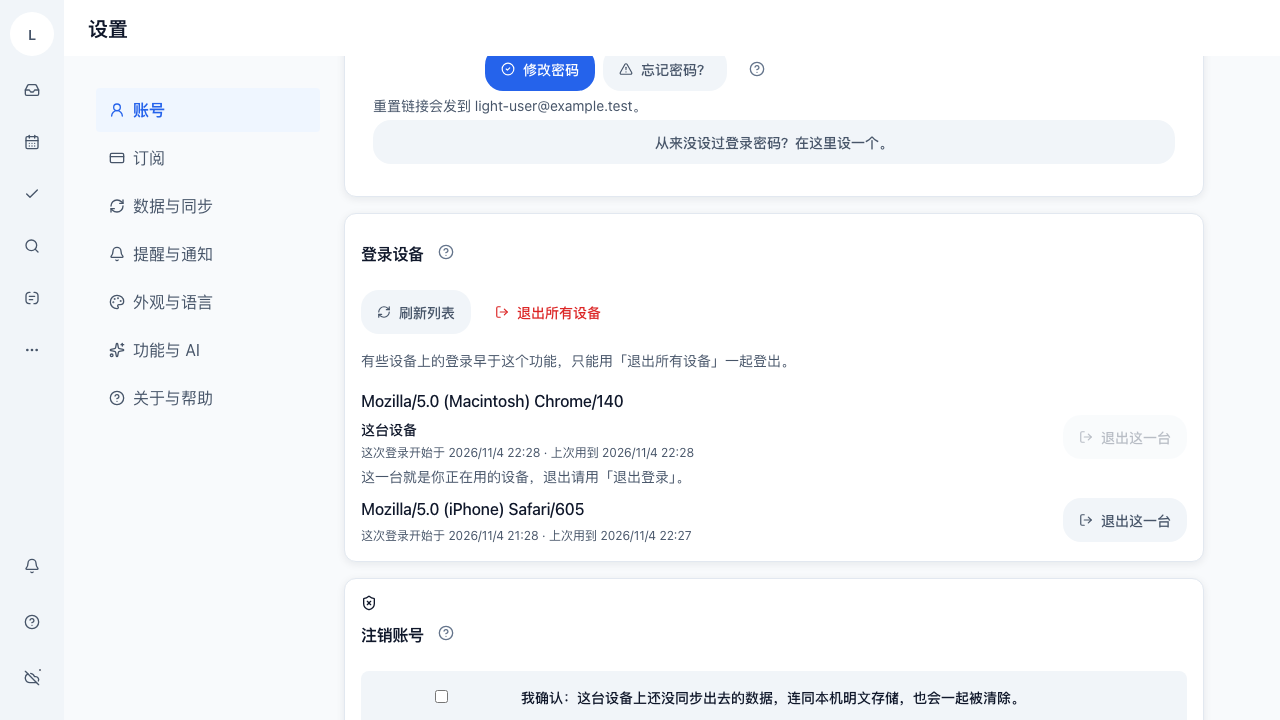
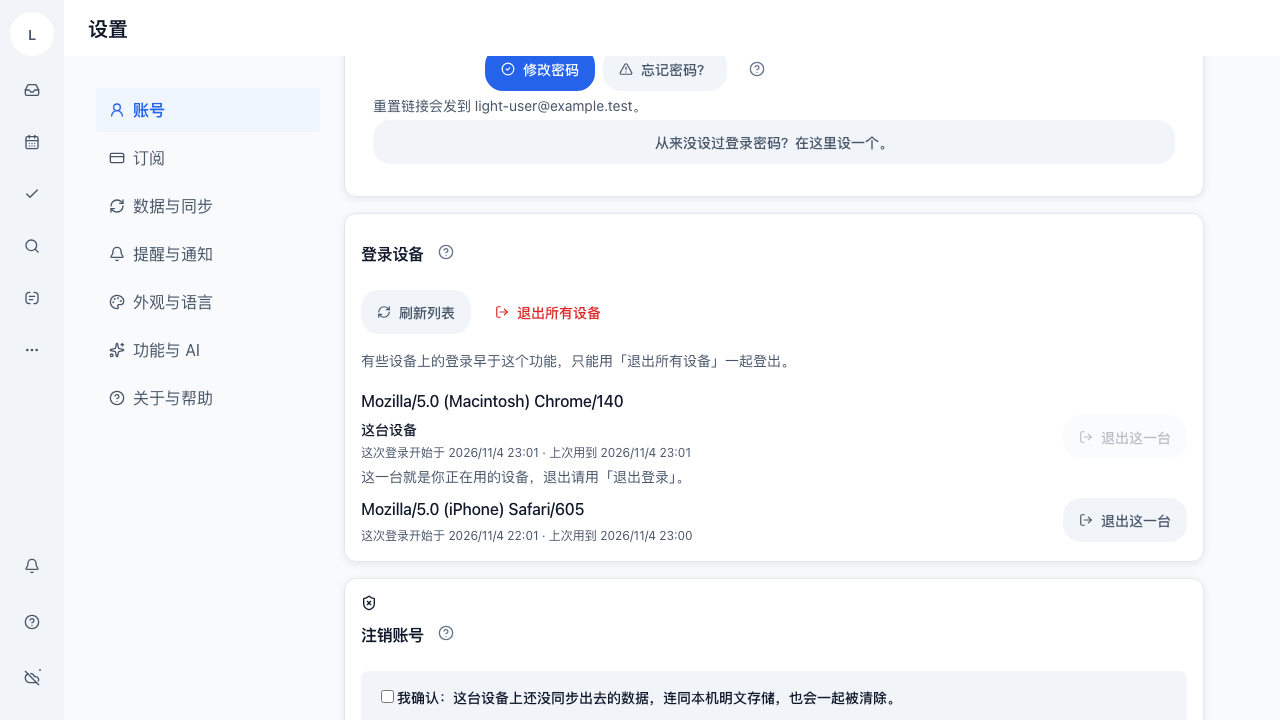
feat(settings): 暗色两档看图腿常驻 —— 抓到并修掉确认复选框被画进标签列那一格
- e2e 新增第 8 条：1440 与 375 暗色各拍迁进共享契约的三格与会话面板，
  四把尺（左缘唯一 / 宽度唯一 / 不越浮层右缘 / 文字比底亮）
- CloseAccountPanel 的确认复选框原来套在两列网格那一档，盒子被撑到整列宽、
  与它那句话隔一列 —— 改成 inline 流；行解剖账本 39 → 38
- 计划里那句"设置面那几枚 e2e 一枚都不在 pnpm check 链里"按现量否证：
  链里 check:ai-e2e 跑的就是默认整套，新 spec 自动有消费方

Changed region(s): [[0.3125, 0.9472, 0.8125, 0.9778], [0.4062, 0.6111, 0.5312, 0.6417], [0.4062, 0.7333, 0.5, 0.7639]]

diff --git a/apps/web/src/features/settings/CloseAccountPanel.tsx b/apps/web/src/features/settings/CloseAccountPanel.tsx
@@ -152,20 +152,28 @@ export function CloseAccountPanel(): React.JSX.Element | null {
             </p>
           ) : null}
 
+          {/*
+            🔴 这一格**不是**"标签在左 / 控件在右"的那一行（`__row` 那一档是两列网格，
+            第一列 `minmax(5rem, 8rem)`）。2026-11-04 暗色看图腿量到：把确认用的复选框套进那一档，
+            复选框被画在**标签列**里、盒子被撑到那一列的宽度，
+            而它要确认的那句话落在第二列 —— 控件与它的标签隔了一整列宽。
+            确认框与正文是**同一个控件**，走浏览器默认的 inline 流即可（与「自动收集」那一屏的
+            多选框同一写法）。行的上下留白由这张 danger 卡自己给。
+            这一条现在由 `e2e/tests/account-email-change-and-sessions.spec.ts` 的暗色看图腿钉住
+            （复选框右缘与正文左缘的距离 ≤16px；改回两列网格会立刻红）。
+          */}
           <label className="ht-settings__item-label" htmlFor="close-account-ack">
-            <span className="ht-settings__row">
-              <input
-                id="close-account-ack"
-                type="checkbox"
-                checked={acknowledged}
-                onChange={(e) => {
-                  setAcknowledged(e.target.checked);
-                  setConfirming(false);
-                  setDone(null);
-                }}
-              />
-              {t('common.accountClosure.confirmLocal')}
-            </span>
+            <input
+              id="close-account-ack"
+              type="checkbox"
+              checked={acknowledged}
+              onChange={(e) => {
+                setAcknowledged(e.target.checked);
+                setConfirming(false);
+                setDone(null);
+              }}
+            />
+            {t('common.accountClosure.confirmLocal')}
           </label>
 
           {acknowledged && !confirming ? (

diff --git a/docs/plans/settings-ui-governance-2026-11.md b/docs/plans/settings-ui-governance-2026-11.md
@@ -143,13 +143,42 @@
 ⚠ **四象限的现量分布（别把这行读成"都看过了"）**：
 1440 亮 = 真看过（上表那三处就是这么抓到的）；375 亮 = 真看过（`tests/narrow-settings.png`，
 横向导航条与行都正常，那枚 `0.5em` 遮罩淡出在窄屏导航左缘生效）；
-**暗色两档 = 没做像素级看图**。暗色这一格本线的现量是"没有新增任何颜色字面量"：
-`git diff f78a328a4^ HEAD -- …/form.css …/ai-panels.css` 的新增行里
-`grep -cE '#hex|rgb|rgba|[0-9]+px'` ⇒ **0**（只有 token 与 token 的 calc），
-`check:theme` 与 `check:design` 均 rc=0 ⇒ 暗色跟随 token 表，不是跟随这批几何改动。
-**常驻的暗色腿还没建**，而且它不是"再写一个 spec"就完：`settings-row-grammar` 这类 e2e
-**一枚都不在 `pnpm check` 链里**（现量：`grep -c settings-row-grammar package.json` ⇒ 0），
-新建的暗色 spec 同样会 0 次执行 —— 要先定"由哪条 `check:*` 跑它"，那是 e2e 射程的裁决。
+**暗色两档 = 2026-11-04 补看，看图腿已常驻**（见下一节）。
+
+**这一行原来还写着两句错的判断，都被现量否证**（留着是因为它们是同族教训，不是结论）：
+
+1. ~~"暗色这一格本线的现量是没有新增颜色字面量"~~ —— 那是**间接**证据。它否证不了"暗色下画不出来"，
+   而暗色真正会出的事故（文字与底同色）恰恰不动任何字面量。现在这一条改由 e2e 直接判亮度差。
+2. ~~"`settings-row-grammar` 这类 e2e 一枚都不在 `pnpm check` 链里，新建的暗色 spec 同样会 0 次执行"~~ ——
+   这句是**按别名名字去 grep** 读出来的，而链里那枚 `check:ai-e2e` 跑的是 `pnpm --dir e2e run test`
+   （默认 `playwright.config.ts`，`testDir: ./tests`）。现量：`pnpm --dir e2e exec playwright test --list`
+   ⇒ **510 条 / 134 个文件**，其中 `settings-row-grammar` 7 条、`settings-form-alignment` 2 条、
+   `narrow-sweep` 10 条、`theme-switch-contrast` 1 条、`account-email-change-and-sessions` 7 条
+   （逐枚复量：`pnpm --dir e2e exec playwright test --list | grep -c "› <文件名>"`）。
+   **所以这一族不需要新的接线，也不需要谁裁决"哪条 check 跑 e2e"** —— 写新 spec 就自动有人跑。
+   教训与 `docs/agents/` 那条"一把尺在某处读 0，只说明它扫的那套写法里没有"是同一件事：
+   这次扫的是**别名名字**，而消费方是**整条 e2e 套**。
+
+**常驻暗色腿（2026-11-04 补，`account-email-change-and-sessions.spec.ts` 第 8 条）**：
+一条用例跑 1440 与 375 两档，暗色下把迁进共享契约的三格（`profile-avatar-row` /
+`profile-nickname-row` / `profile-email-row`）与会话面板各拍一张，落在受版本控制的
+`apps/web/evidence/account-suite/12…15-*.png`。判据不是只有图：
+
+| 判据 | 为什么这条必须能红 | 现量 |
+|---|---|---|
+| 三格行容器**左缘唯一、宽度唯一** | 本批把三格交给同一个列表渲染；两列网格与 `FormField` 网格混用时左缘会散（1440 亮档那三处缺陷就是这么抓到的） | 两档都过 |
+| 行不许越过浮层右缘 | 窄档溢出只会出现在 375，亮色 1440 那趟看不见 | 两档都过 |
+| **暗色下文字比底亮**（WCAG 相对亮度差 >0.1） | 文字与底同色是暗色最典型的事故，而它**不动任何颜色字面量** ⇒ 上面那条"没有新增字面量"的间接证据抓不到 | 两档都过 |
+| 确认复选框**盒子不被拉伸**（≤24px）**且**与正文相邻（≤16px） | 看图时抓到：注销账号那句确认话被画在两列网格的第二列，复选框在 8rem 的标签列里 | 修后过；变异臂（把 label 挂回 `__row`）报 **121px** |
+
+⚠ **只量"复选框到文字的距离"会读成绿**：盒子被撑满整列时右缘恰好贴着下一列，变异臂实测距离只有
+**19px**（看着像挨着），而屏幕上那个小方块离正文一百多像素。所以这一格是**两把尺子**，缺一把漏一半。
+
+🔴 **这一族的一个探针坑（本线踩过两次）**：`HEYTA_E2E_APP_PORT` / `HEYTA_E2E_STUB_PORT` **复用上一趟的号码**
+会得到一次假红 —— 症状是应用停在启动闪屏（page snapshot 只有 `img "heyta"`），
+`openApp` 等 `input[placeholder^="添加任务"]` 15s 超时，**看起来像负载问题**。
+同一趟里换一对没用过的端口 ⇒ 立刻 8/8 绿；同一对端口再跑 ⇒ 又红。
+复量：`lsof -nP -iTCP:<port> -sTCP:LISTEN`（跑完应当为空；不为空就是上一趟的服务没退）。
 
 **看图时顺带撞到的两处，登记但本线不修**：
 
@@ -319,7 +348,7 @@ iOS 那枚 booted 模拟器现在可能被别线占着（`xcrun simctl list devi
 | W1（本轮） | G-4 迁移那一半 | ✅ 四格字段迁 `FormField`（ProfilePanel 昵称 / EmailChangePanel / PasskeyPanel 改名 / PasswordPanel 口令）+ 一格行迁 `trailing` 档（SessionsPanel）；账本逐次收缩，现量 `cat scripts/settings-row-anatomy-ledger.json` |
 | W2 | G-6 位置尺进链 | ✅ `check:tip-adjacency` 的定义与链上那一节已入库，同批把本线四枚同族尺的定义都带上 `--self-test` 臂（做法与卡点见 G-6 第三半）|
 | W2 | G-4 的 mobile 那一格 | ⏸ `apps/mobile/src/screens/SessionsSection.tsx` 改吃 `trailing` 档：契约已就位，欠一次设备腿（Android 载体在 linux-dev，iOS 那枚可能被别线占） |
-| W2 | 暗色两档的常驻看图腿 | ⏸ 现量：`grep -c settings-row-grammar package.json` ⇒ 0 —— 设置面那几枚 e2e（`settings-row-grammar` / `settings-form-alignment` / `narrow-sweep`）**一枚都不在 `pnpm check` 链里**，`check:e2e-specs-parse` 只验"能不能解析"。所以再写一枚暗色 spec 也还是 0 次执行：先要定"由哪条 `check:*` 跑 e2e 全量/分片"，那是 e2e 射程的裁决，不是本线能顺手加的 |
+| W2 | 暗色两档的常驻看图腿 | ✅ 已建并真看过（`account-email-change-and-sessions.spec.ts` 第 8 条，1440 + 375 暗色，抓到并修掉确认复选框那一格）。**这一行原来那句"设置面那几枚 e2e 一枚都不在链里"是假的** —— 链里 `check:ai-e2e` 跑整条默认套（现量 `pnpm --dir e2e exec playwright test --list` 的总数），新 spec 自动有人跑，不需要额外裁决 |
 | — | G-6 禁令校准 | ✅ 关闭：前提被现量否证，无需产品拍板（见该节） |
 
 ---
